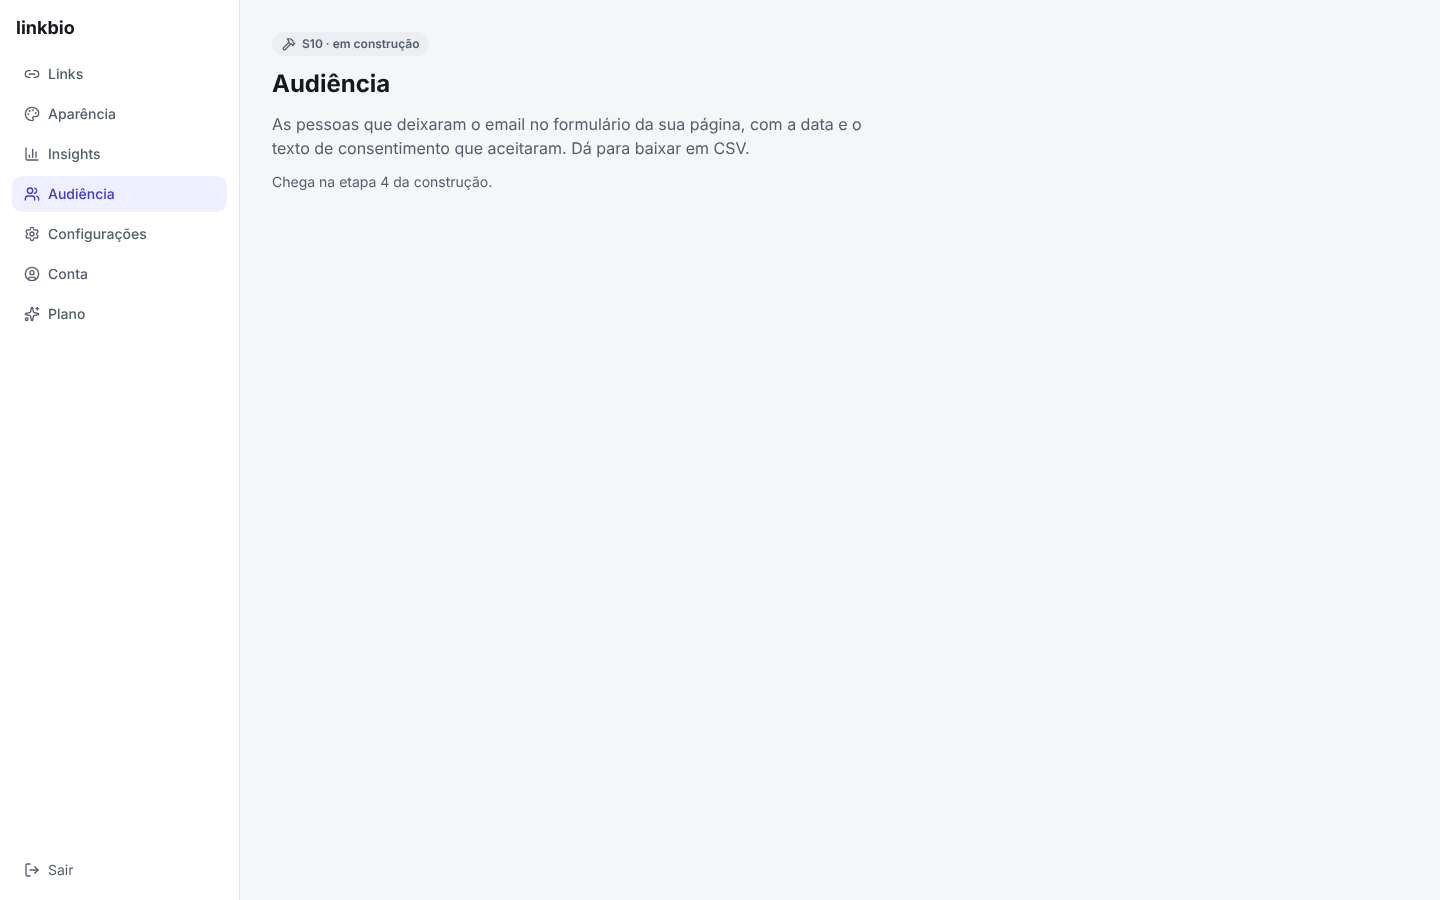
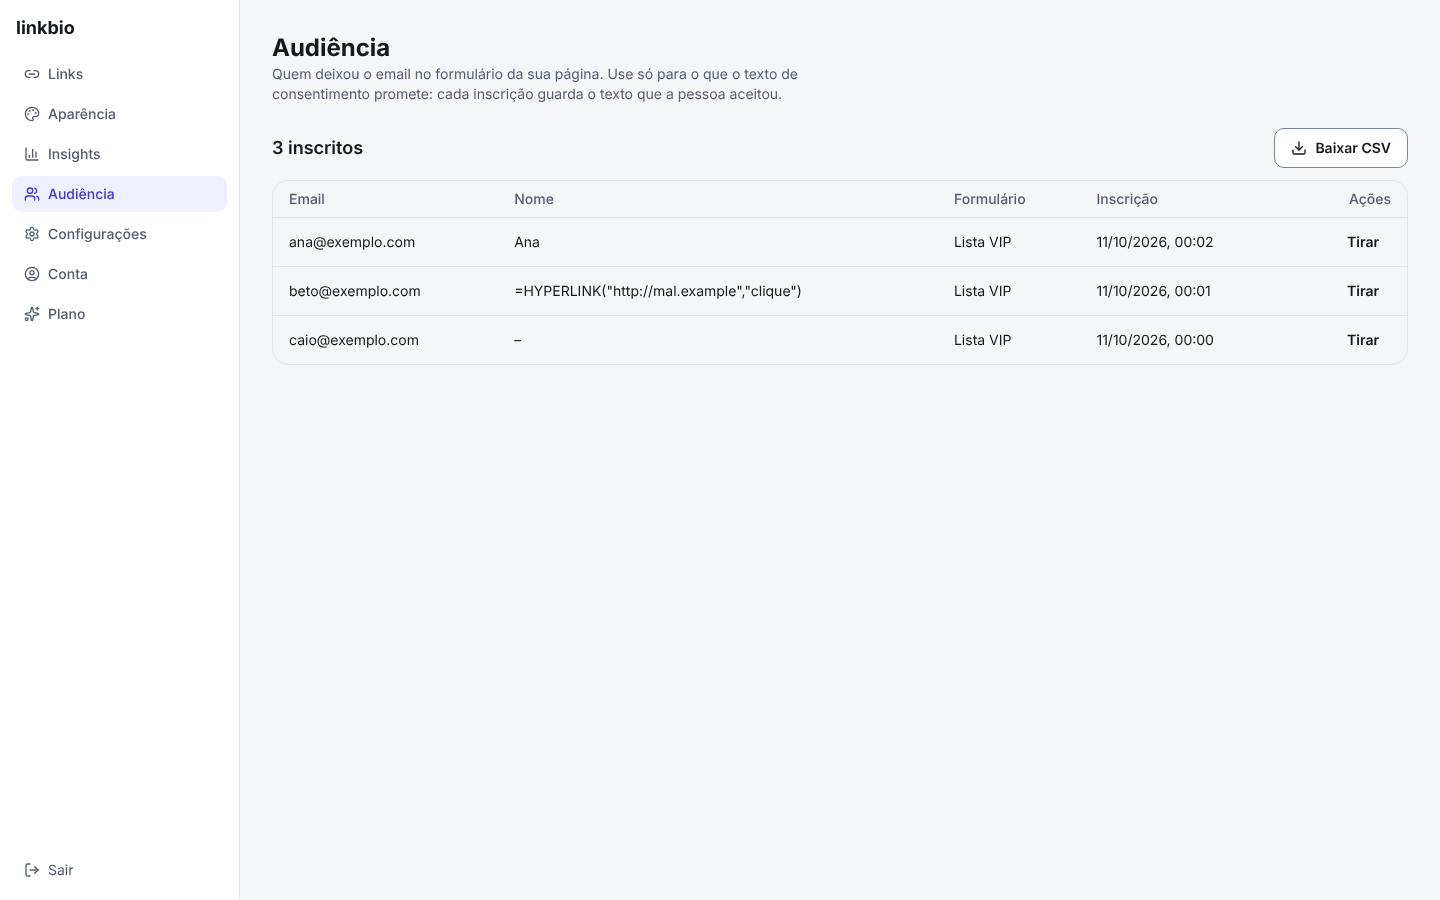
build: S10 audiência e CSV
Tabela dos inscritos (os 1000 mais novos), tirar alguém da lista e o
download direto do CSV: BOM, ponto e vírgula, datas no horário de
Brasília e fórmulas neutralizadas. Só o dono baixa, com limite por conta.

Claude-Session: https://claude.ai/code/session_01VU2uHG2r7EAoAyA7XPEArP

diff --git a/e2e/f07-audiencia.spec.ts b/e2e/f07-audiencia.spec.ts
@@ -1,0 +1,85 @@
+// F07 Criador exporta os inscritos: S10 lista -> CSV.
+import { readFile } from "node:fs/promises";
+import { capturar, contaPronta, entrarNoPainel, expect, semRolagemLateral, semViolacoes, sql, test } from "./apoio";
+
+async function comInscritos(nome: string, pessoas: Array<[string, string | null]>) {
+  const c = await contaPronta(nome);
+  const [l] = await sql`insert into links (profile_id, kind, title, position) values (${c.perfil}, 'form', 'Lista VIP', 0) returning id`;
+  await sql`insert into forms (link_id, consent_text) values (${l.id}, 'Aceito receber a lista VIP por email.')`;
+  for (const [i, [email, nomeP]] of pessoas.entries()) {
+    await sql`insert into submissions (profile_id, link_id, email, name, consent_text, created_at)
+              values (${c.perfil}, ${l.id}, ${email}, ${nomeP}, 'Aceito receber a lista VIP por email.', now() - make_interval(mins => ${i}))`;
+  }
+  return c;
+}
+
+test.describe("F07 exporta os inscritos", () => {
+  test("F07-H1 a lista mostra os inscritos e o CSV vem certo (BOM, ponto e vírgula, sem fórmula)", async ({ page }) => {
+    const c = await comInscritos("csv", [
+      ["ana@exemplo.com", "Ana"],
+      ["beto@exemplo.com", '=HYPERLINK("http://mal.example","clique")'],
+      ["caio@exemplo.com", null],
+    ]);
+    await entrarNoPainel(page, c);
+    await page.getByRole("link", { name: "Audiência" }).click();
+    await expect(page.getByRole("heading", { name: "3 inscritos" })).toBeVisible();
+    await expect(page.getByRole("cell", { name: "ana@exemplo.com", exact: true })).toBeVisible();
+    await semViolacoes(page, "S10");
+    await capturar(page, "S10");
+    const baixando = page.waitForEvent("download");
+    await page.getByRole("link", { name: "Baixar CSV" }).click();
+    const arquivo = await baixando;
+    expect(arquivo.suggestedFilename()).toMatch(new RegExp(`^inscritos-${c.username.replace(".", "\\.")}-\\d{4}-\\d{2}-\\d{2}\\.csv$`));
+    const texto = await readFile((await arquivo.path())!, "utf8");
+    expect(texto.charCodeAt(0)).toBe(0xfeff);
+    const linhas = texto.slice(1).trim().split("\r\n");
+    expect(linhas[0]).toBe("email;nome;formulario;inscrito_em;consentimento_aceito");
+    expect(linhas).toHaveLength(4);
+    expect(linhas[1]).toMatch(/^"ana@exemplo.com";"Ana";"Lista VIP";"\d{4}-\d{2}-\d{2} \d{2}:\d{2}";"Aceito receber a lista VIP por email."$/);
+    expect(linhas[2]).toContain(`"'=HYPERLINK(""http://mal.example"",""clique"")"`);
+  });
+
+  test("F07-E1 lista vazia: convite para pôr o formulário e nenhum botão de CSV", async ({ page }) => {
+    const c = await contaPronta("vazia");
+    await entrarNoPainel(page, c);
+    await page.goto("/admin/audiencia");
+    await expect(page.getByText("Ninguém se inscreveu ainda.")).toBeVisible();
+    await expect(page.getByRole("link", { name: "Baixar CSV" })).toHaveCount(0);
+    await semViolacoes(page, "S10 vazia");
+  });
+
+  test("F07-E2 tirar uma pessoa da lista: some da tela e do CSV", async ({ page }) => {
+    const c = await comInscritos("tira", [["fica@exemplo.com", null], ["sai@exemplo.com", null]]);
+    await entrarNoPainel(page, c);
+    await page.goto("/admin/audiencia");
+    await page.getByRole("button", { name: "Tirar sai@exemplo.com da lista" }).click();
+    await page.getByRole("dialog").getByRole("button", { name: "Tirar da lista" }).click();
+    await expect(page.getByText("Tirado da lista")).toBeVisible();
+    await expect(page.getByRole("cell", { name: "sai@exemplo.com" })).toHaveCount(0);
+    const csv = await (await page.request.get("/api/audiencia.csv")).text();
+    expect(csv).toContain("fica@exemplo.com");
+    expect(csv).not.toContain("sai@exemplo.com");
+  });
+
+  test("F07-E3 o CSV é só do dono: sem sessão 401, outra conta não vê os inscritos", async ({ page, request }) => {
+    const dono = await comInscritos("dono", [["segredo@exemplo.com", null]]);
+    expect((await request.get("/api/audiencia.csv")).status()).toBe(401);
+    const outra = await contaPronta("curioso");
+    await entrarNoPainel(page, outra);
+    const csv = await (await page.request.get("/api/audiencia.csv")).text();
+    expect(csv).not.toContain("segredo@exemplo.com");
+    await page.goto("/admin/audiencia");
+    await expect(page.getByText("segredo@exemplo.com")).toHaveCount(0);
+    void dono;
+  });
+
+  test("F07-E4 a 390 px a tabela rola dentro dela, sem rolar a página", async ({ page }) => {
+    await page.setViewportSize({ width: 390, height: 844 });
+    const c = await comInscritos("estreita", [["um.email.bem.comprido.para.testar@exemplo.com.br", "Maria Aparecida dos Santos Oliveira"]]);
+    await entrarNoPainel(page, c);
+    await page.goto("/admin/audiencia");
+    await expect(page.getByRole("heading", { name: "1 inscrito" })).toBeVisible();
+    await semRolagemLateral(page);
+    await capturar(page, "S10");
+  });
+});

diff --git a/src/app/admin/audiencia/page.tsx b/src/app/admin/audiencia/page.tsx
@@ -1,9 +1,87 @@
+import { Download } from "lucide-react";
 import type { Metadata } from "next";
-import { EmConstrucao } from "@/components/app/em-construcao";
+import Link from "next/link";
+import { Suspense } from "react";
+import { DataTable } from "@/components/ui/data-table";
+import { listarInscritos } from "@/lib/data/formularios";
+import { exigirPerfil } from "@/lib/sessao";
+import { TirarDaLista } from "./tirar";
 
 export const metadata: Metadata = { title: "Audiência · linkbio" };
 
-// S10
-export default function Pagina() {
-  return <EmConstrucao tela="S10" titulo="Audiência" descricao="As pessoas que deixaram o email no formulário da sua página, com a data e o texto de consentimento que aceitaram. Dá para baixar em CSV." etapa="etapa 4 da construção" />;
+const LIMITE_NA_TELA = 1000;
+const quando = (iso: string) =>
+  new Date(iso).toLocaleString("pt-BR", { timeZone: "America/Sao_Paulo", dateStyle: "short", timeStyle: "short" });
+const numero = new Intl.NumberFormat("pt-BR");
+
+// S10: quem deixou o email no formulário da página (F07)
+export default function Audiencia() {
+  return (
+    <div className="flex flex-col gap-6">
+      <div>
+        <h1 className="text-xl font-bold text-fg">Audiência</h1>
+        <p className="max-w-[70ch] text-sm text-muted">
+          Quem deixou o email no formulário da sua página. Use só para o que o texto de consentimento promete: cada inscrição guarda o
+          texto que a pessoa aceitou.
+        </p>
+      </div>
+      <Suspense fallback={<div role="status" className="h-48 animate-pulse rounded-lg bg-surface-2"><span className="sr-only">Carregando</span></div>}>
+        <Dados />
+      </Suspense>
+    </div>
+  );
+}
+
+async function Dados() {
+  const { sessao, perfil } = await exigirPerfil();
+  const inscritos = await listarInscritos(sessao.userId, perfil.id, LIMITE_NA_TELA + 1);
+  const mostrados = inscritos.slice(0, LIMITE_NA_TELA);
+  return (
+    <section aria-labelledby="t-inscritos" className="flex flex-col gap-3">
+      <div className="flex flex-wrap items-center justify-between gap-3">
+        <h2 id="t-inscritos" className="text-lg font-semibold text-fg">
+          {inscritos.length > LIMITE_NA_TELA
+            ? `Os ${numero.format(LIMITE_NA_TELA)} mais recentes`
+            : `${numero.format(inscritos.length)} ${inscritos.length === 1 ? "inscrito" : "inscritos"}`}
+        </h2>
+        {inscritos.length > 0 && (
+          <a
+            href="/api/audiencia.csv"
+            download
+            className="inline-flex h-10 items-center gap-2 rounded-md border border-input bg-bg px-4 text-sm font-semibold text-fg hover:bg-surface"
+          >
+            <Download aria-hidden className="size-4" />
+            Baixar CSV
+          </a>
+        )}
+      </div>
+      {inscritos.length > LIMITE_NA_TELA && <p className="text-sm text-muted">O CSV traz a lista inteira.</p>}
+      <DataTable
+        legenda="Pessoas inscritas pelo formulário da página"
+        colunas={[
+          { chave: "email", titulo: "Email" },
+          { chave: "nome", titulo: "Nome" },
+          { chave: "formulario", titulo: "Formulário" },
+          { chave: "em", titulo: "Inscrição" },
+          { chave: "acao", titulo: "Ações", alinhar: "direita" },
+        ]}
+        linhas={mostrados.map((i) => ({
+          email: i.email,
+          nome: i.nome ?? "–",
+          formulario: i.formulario ?? "formulário removido",
+          em: quando(i.em),
+          acao: <TirarDaLista id={i.id} email={i.email} />,
+        }))}
+        vazio={
+          <>
+            Ninguém se inscreveu ainda.{" "}
+            <Link href="/admin" className="font-semibold text-accent underline">
+              Adicione um formulário de email
+            </Link>{" "}
+            na sua página e compartilhe o endereço.
+          </>
+        }
+      />
+    </section>
+  );
 }

diff --git a/src/app/api/audiencia.csv/route.ts b/src/app/api/audiencia.csv/route.ts
@@ -1,0 +1,33 @@
+import { sessaoAtual } from "@/lib/data/auth";
+import { celulaCsv, listarInscritos } from "@/lib/data/formularios";
+import { dentroDosLimites } from "@/lib/data/limites";
+import { perfilDaConta } from "@/lib/data/perfis";
+
+const dataHora = (iso: string) =>
+  new Intl.DateTimeFormat("sv-SE", { timeZone: "America/Sao_Paulo", dateStyle: "short", timeStyle: "short" }).format(new Date(iso));
+
+// S10: os inscritos em CSV, direto (sem a ida e volta por email do original).
+// Ponto e vírgula e BOM: abre certo no Excel em português. Células que
+// começariam com =, +, - ou @ viram texto (sem fórmula escondida).
+export async function GET() {
+  const sessao = await sessaoAtual();
+  if (!sessao) return new Response("Entre de novo.", { status: 401 });
+  const perfil = await perfilDaConta(sessao.userId);
+  if (!perfil) return new Response("Sem página.", { status: 404 });
+  if (!(await dentroDosLimites([["csv:conta", sessao.userId, 20, 3600]]))) {
+    return new Response("Muitos downloads seguidos. Espere um pouco.", { status: 429 });
+  }
+  const inscritos = await listarInscritos(sessao.userId, perfil.id, 100_000);
+  const linhas = [
+    ["email", "nome", "formulario", "inscrito_em", "consentimento_aceito"].join(";"),
+    ...inscritos.map((i) => [i.email, i.nome, i.formulario, dataHora(i.em), i.consentimento].map(celulaCsv).join(";")),
+  ];
+  const hoje = new Date().toISOString().slice(0, 10);
+  return new Response(`${linhas.join("\r\n")}\r\n`, {
+    headers: {
+      "content-type": "text/csv; charset=utf-8",
+      "content-disposition": `attachment; filename="inscritos-${perfil.username}-${hoje}.csv"`,
+      "cache-control": "no-store",
+    },
+  });
+}

diff --git a/src/app/admin/audiencia/tirar.tsx b/src/app/admin/audiencia/tirar.tsx
@@ -1,0 +1,45 @@
+"use client";
+
+import { useState } from "react";
+import { tirarDaLista } from "@/app/acoes";
+import { Button } from "@/components/ui/button";
+import { Dialog } from "@/components/ui/dialog";
+import { useToast } from "@/components/ui/toast";
+import { SEM_CONEXAO, tentar } from "@/lib/acao-segura";
+
+/** Tira uma pessoa da lista (por exemplo, quando ela pede). Confirma antes. */
+export function TirarDaLista({ id, email }: { id: string; email: string }) {
+  const toast = useToast();
+  const [aberto, setAberto] = useState(false);
+  const [tirando, setTirando] = useState(false);
+  async function tirar() {
+    setTirando(true);
+    const ok = await tentar(() => tirarDaLista(id), null);
+    setTirando(false);
+    setAberto(false);
+    if (ok) toast("Tirado da lista");
+    else toast(ok === null ? SEM_CONEXAO : "Não deu para tirar da lista.", "erro");
+  }
+  return (
+    <Dialog
+      open={aberto}
+      onOpenChange={setAberto}
+      title="Tirar da lista?"
+      description={`${email} sai da sua lista e do CSV. Não dá para desfazer; a pessoa pode se inscrever de novo pela sua página.`}
+      trigger={
+        <Button variant="ghost" size="sm" aria-label={`Tirar ${email} da lista`}>
+          Tirar
+        </Button>
+      }
+    >
+      <div className="flex justify-end gap-2">
+        <Button variant="secondary" onClick={() => setAberto(false)}>
+          Cancelar
+        </Button>
+        <Button variant="danger" loading={tirando} onClick={tirar}>
+          Tirar da lista
+        </Button>
+      </div>
+    </Dialog>
+  );
+}

diff --git a/src/proxy.ts b/src/proxy.ts
@@ -58,5 +58,6 @@ export const config = {
     { source: "/api/username", missing: [{ type: "header", key: "next-router-prefetch" }, { type: "header", key: "purpose", value: "prefetch" }] },
     { source: "/api/upload", missing: [{ type: "header", key: "next-router-prefetch" }, { type: "header", key: "purpose", value: "prefetch" }] },
     { source: "/api/me/:path*", missing: [{ type: "header", key: "next-router-prefetch" }, { type: "header", key: "purpose", value: "prefetch" }] },
+    { source: "/api/audiencia.csv", missing: [{ type: "header", key: "next-router-prefetch" }, { type: "header", key: "purpose", value: "prefetch" }] },
   ],
 };
